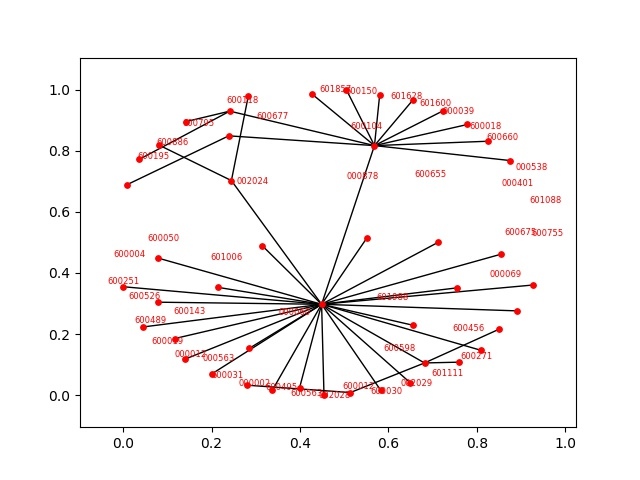
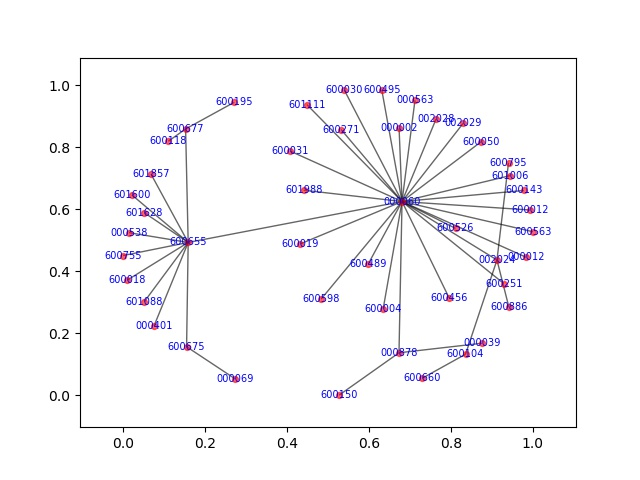
mst graph

diff --git a/mst.py b/mst.py
@@ -21,13 +21,14 @@ for file in dists:
     G = nx.from_scipy_sparse_matrix(A, create_using=nx.MultiGraph())
 
     T = nx.minimum_spanning_tree(G)
+    pos_t = nx.spring_layout(T)
     labels = {}
     cnt = 0
     for node in T.nodes():
         labels[node] = files[cnt].split('.')[0]
         cnt += 1
     plt.figure()
-    nx.draw_networkx(T, pos=nx.spring_layout(T), with_labels=False, node_size = 15)
-    nx.draw_networkx_labels(T, nx.spring_layout(T), labels, font_size=6,font_color='r')
+    nx.draw_networkx(T, pos=pos_t, with_labels=False, node_size = 18, alpha=0.6)
+    nx.draw_networkx_labels(T, pos_t, labels, font_size=7,font_color='b')
     #plt.show()
     plt.savefig('graph\\\mst\\' + file.split('.')[0] + '.jpg')
